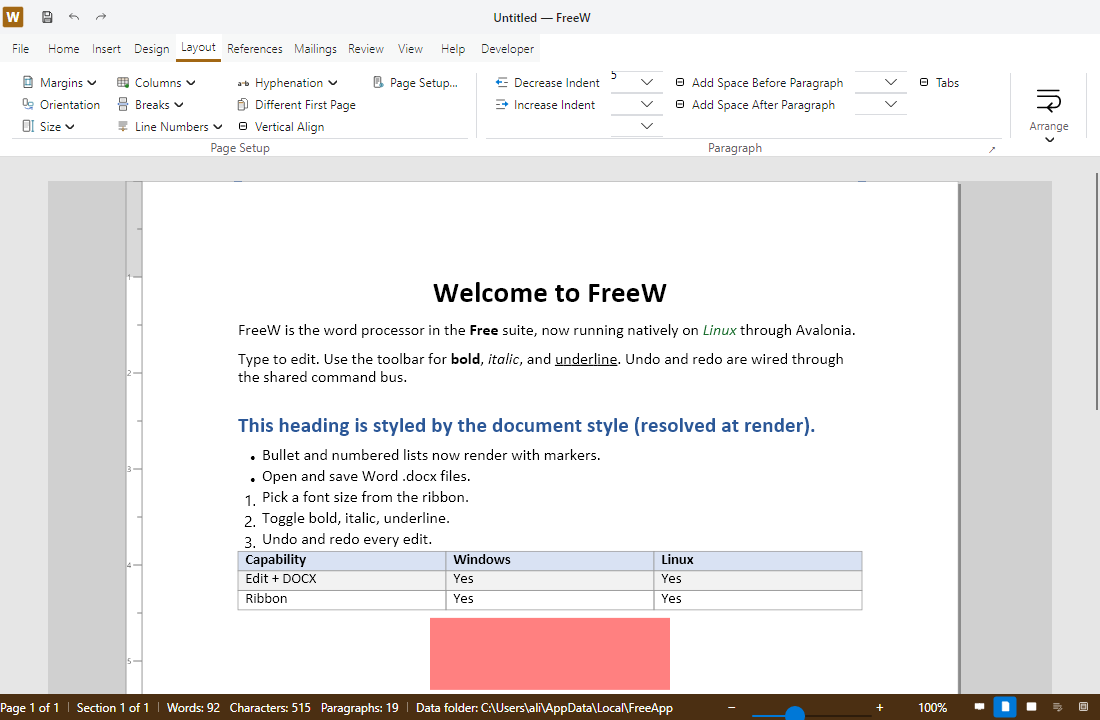
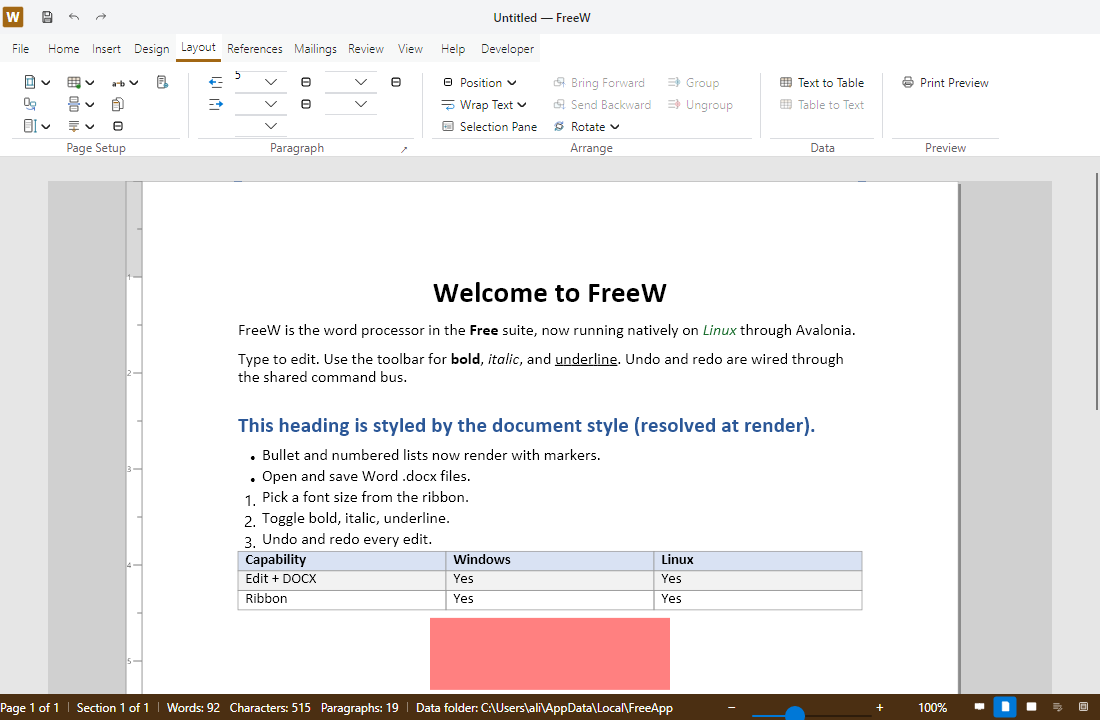
Keep FreeW Layout controls visible

diff --git a/freew/FreeW.Ribbon.Definitions/FreeWCanonicalRibbonTabs.cs b/freew/FreeW.Ribbon.Definitions/FreeWCanonicalRibbonTabs.cs
@@ -76,6 +76,10 @@ internal static partial class FreeWCanonicalRibbonTabs
                     }),
                 tab => tab.Group("page-setup", "Page Setup", null, 100, group =>
                     {
+                        // At narrow widths Word keeps Page Setup and Paragraph directly reachable.
+                        // Prefer the existing icon-based compact presentation to collapsing Paragraph
+                        // while this broad group is still visible at full command widths.
+                        group.Sizing(RibbonGroupSizing.OfficeIconAdaptive);
                         group.Dropdown("freew.margins", "Margins", BuildAvaloniaMarginsMenu(), control => control with
                         {
                             Icon = new RibbonCommandIcon(RibbonCommandIconKind.Margins),
@@ -135,6 +139,9 @@ internal static partial class FreeWCanonicalRibbonTabs
                     }),
                 tab => tab.Group("paragraph", FreeWRibbonText.ParagraphGroup.Label, null, 95, group =>
                     {
+                        // Pair with Page Setup's compact form so both primary Layout groups remain
+                        // actionable before lower-priority Preview, Arrange, and Data groups overflow.
+                        group.Sizing(RibbonGroupSizing.OfficeIconAdaptive);
                         group.Button("freew.indent-decrease", "Decrease Indent", control => control with
                         {
                             Icon = new RibbonCommandIcon(RibbonCommandIconKind.IndentDecrease),

diff --git a/freew/FreeW.Ribbon.Definitions.Tests/FreeWRibbonDefinitionProfileTests.cs b/freew/FreeW.Ribbon.Definitions.Tests/FreeWRibbonDefinitionProfileTests.cs
@@ -175,8 +175,10 @@ public sealed class FreeWRibbonDefinitionProfileTests
         wpfPageSetup.Sizing.MaximumRowsPerColumn.Should().Be(2);
         wpfPageSetup.Launcher!.CommandId.Value.Should().Be("freew.page-setup");
         wpfPageSetup.Controls.Should().NotContain(control => control.CommandId.Value == "freew.page-setup");
+        RequiredGroup(avalonia, "layout", "page-setup").Sizing.CompactControlsAsIcons.Should().BeTrue();
         wpfParagraph.Launcher!.CommandId.Value.Should().Be("freew.paragraph-dialog");
         avaloniaParagraph.Launcher!.CommandId.Value.Should().Be("freew.paragraph-dialog");
+        avaloniaParagraph.Sizing.CompactControlsAsIcons.Should().BeTrue();
 
         wpfParagraph.Priority.Should().BeGreaterThan(RequiredGroup(wpf, "layout", "preview").Priority);
         wpfParagraph.Priority.Should().BeGreaterThan(RequiredGroup(wpf, "layout", "data").Priority);

diff --git a/docs/parity/freew-design-dialog-parity-20260720.md b/docs/parity/freew-design-dialog-parity-20260720.md
@@ -1,7 +1,7 @@
 # FreeW Design Dialog Parity Evidence
 
-Generated at UTC: 2026-08-29T13:55:20.9857469Z
-Source commit: `2f07134f11eb66f85344b195a25544860367572a`
+Generated at UTC: 2026-08-29T14:22:55.6942580Z
+Source commit: `7f3116dffacf8697980be793ec8ba52f459ecdc0`
 Schema: `freew.design-dialog-parity.v1`
 
 Routes: 11 total; 10 complete; 0 remaining in the owned dialog/planner scope; 0 shell gaps recorded.
@@ -48,6 +48,6 @@ Generate-FreeWDesignDialogParityEvidence.ps1 -Check recomputes SHA-256 for every
 | freew/FreeW.App.Presentation.Tests/DesignDialogPlannerTests.cs | fa8a1a51951b85b649e4434d45ff748e8e88d906c760f38478605c30c87997ae |
 | freew/FreeW.App.Presentation/Dialogs/BordersAndShadingDialogPlanner.cs | b3bacdce6d02f237d7f15d4622039991df218c18802e1e6cde729b5174f7ec9a |
 | freew/FreeW.Ribbon.Definitions/FreeWCanonicalRibbonTabs.Contextual.cs | 17d19593786591f0eb980b2b0991522898cfc8158fb6aa0d88dda293c2c0eeca |
-| freew/FreeW.Ribbon.Definitions/FreeWCanonicalRibbonTabs.cs | 5c66daee21146293ce1218c190847b4907611f92a0beb9c7e130f4ee191ca70b |
+| freew/FreeW.Ribbon.Definitions/FreeWCanonicalRibbonTabs.cs | e25b1549c9d6d38d44718c172302e752cbbdeab4e67e9ee5f9f4b7e18fdeb15d |
 | freew/FreeW.Ribbon.Definitions/FreeWCanonicalRibbonTabs.Ordinary.cs | 8db0831595bc545ea01cc124c314a79881bfcd87c282845cb61d28cb0184982f |
 | freew/FreeW.Ribbon.Definitions/FreeWRibbon.cs | b677dc00c1f57487b84bbfa8f62bb2936c3d880094bb8df15df4adf1559266e9 |
